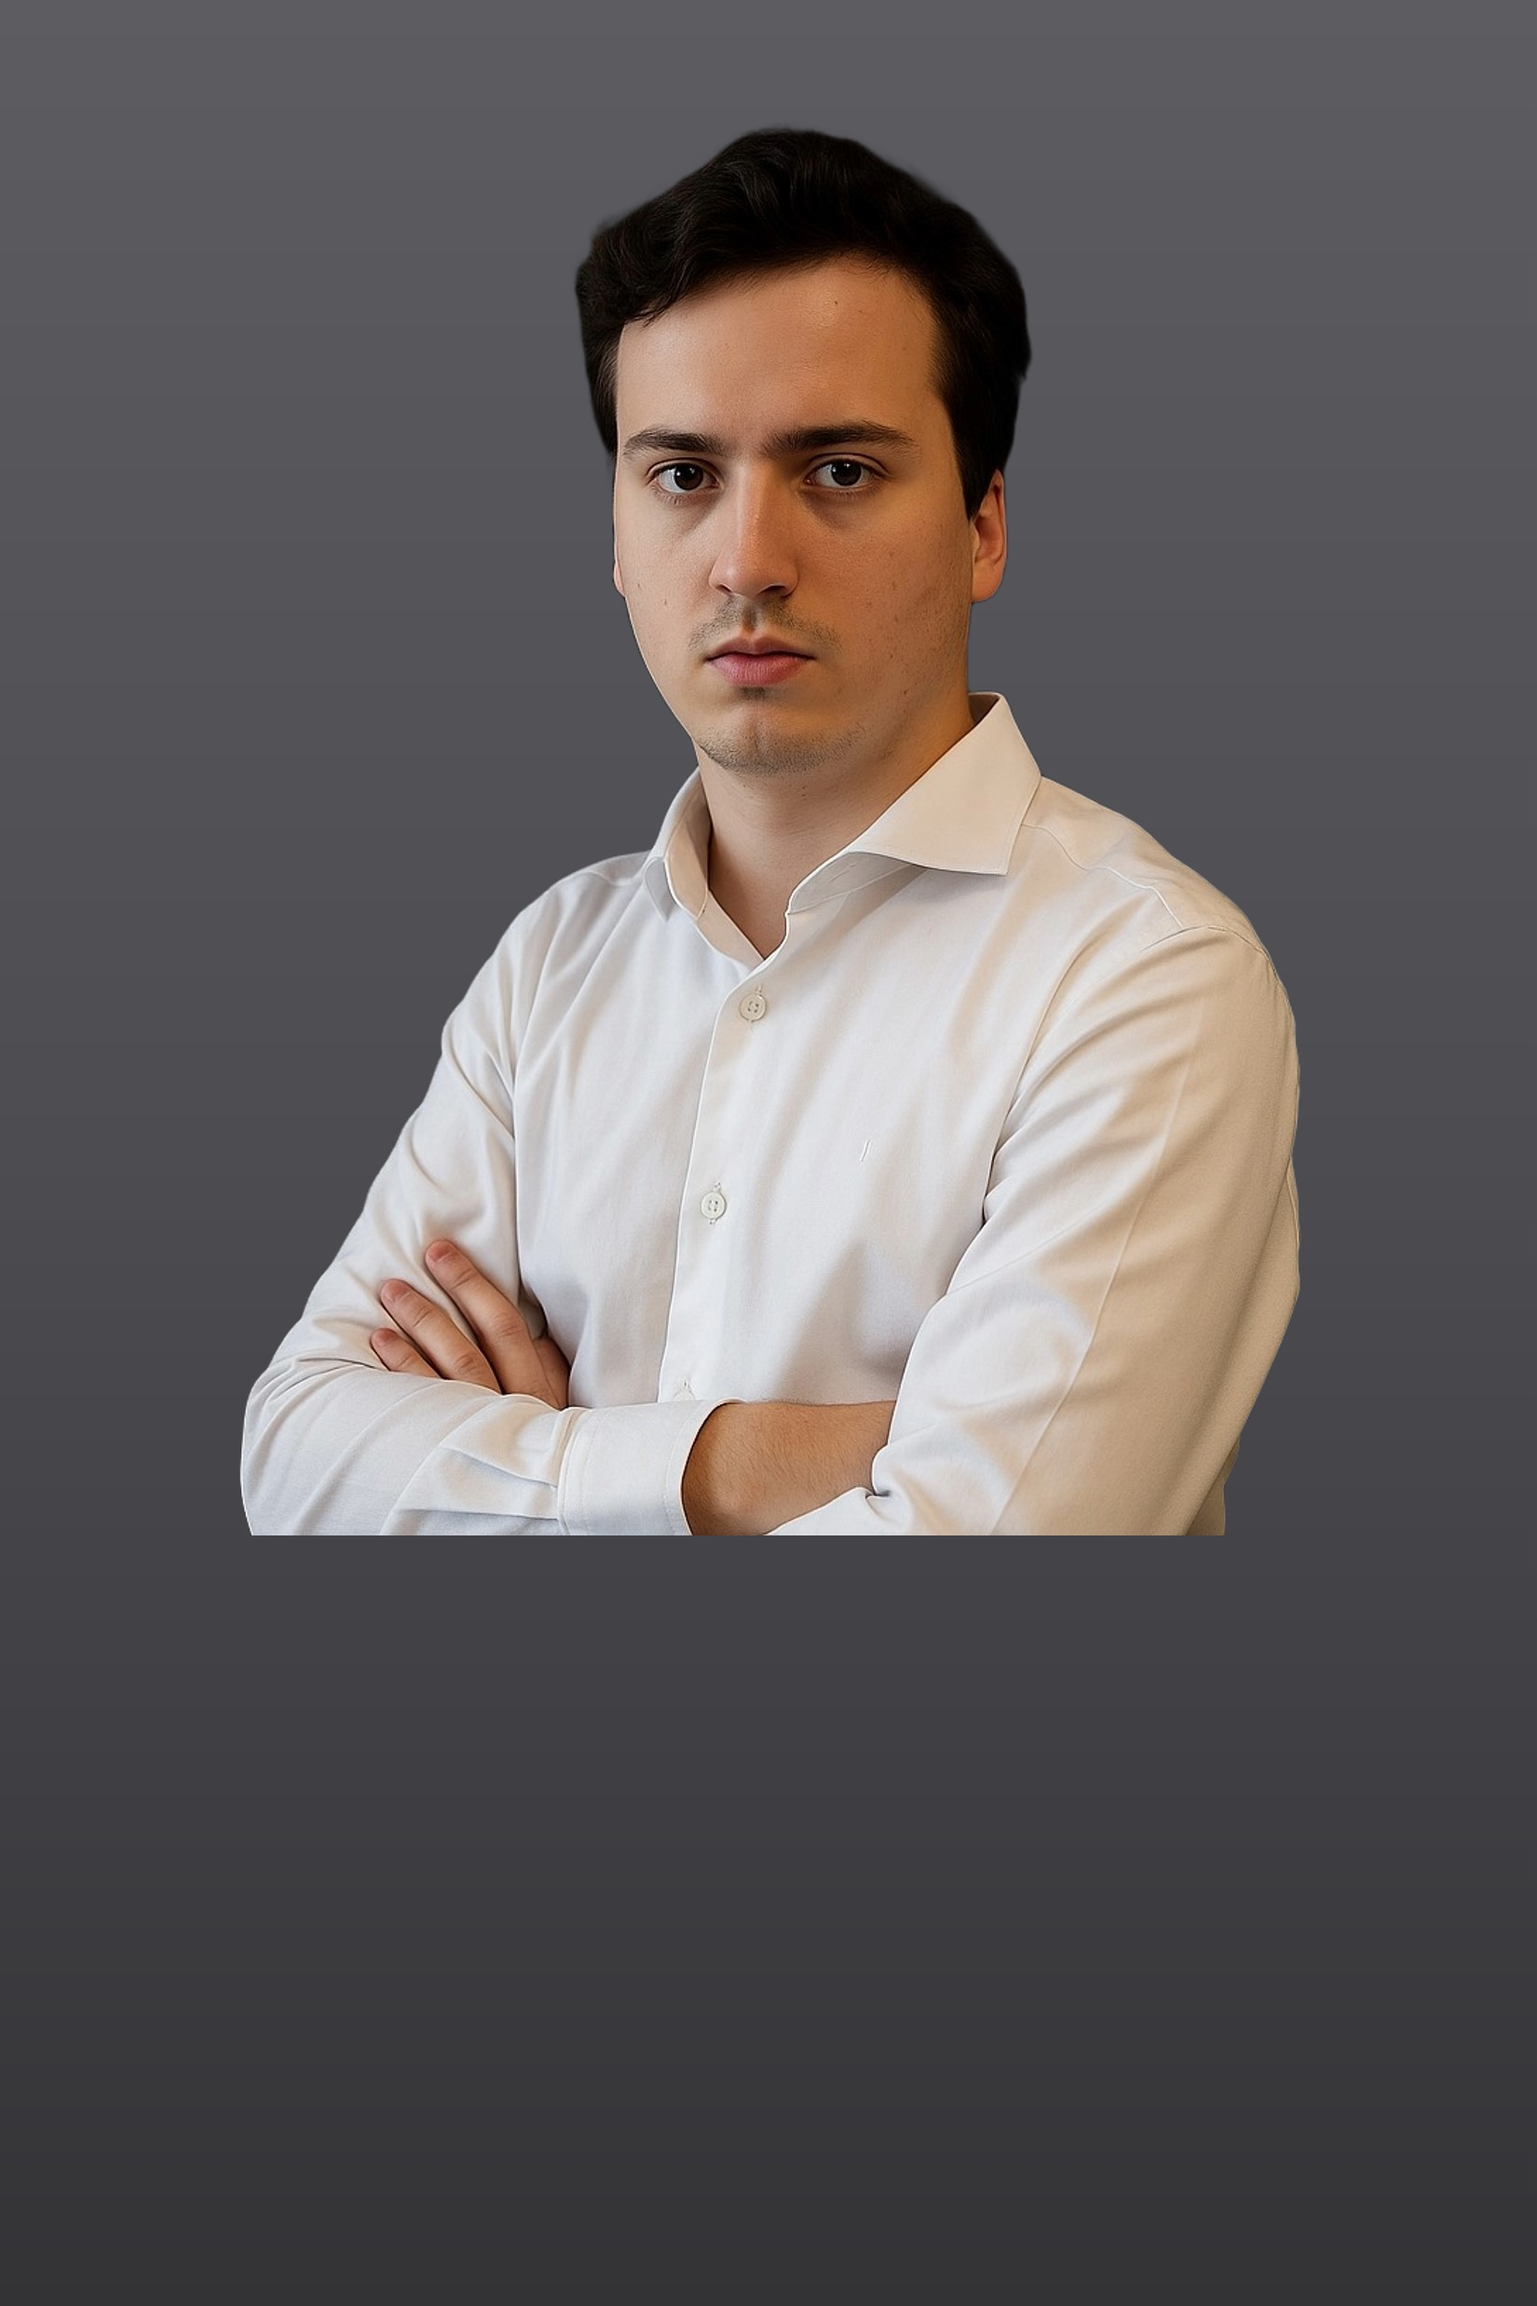
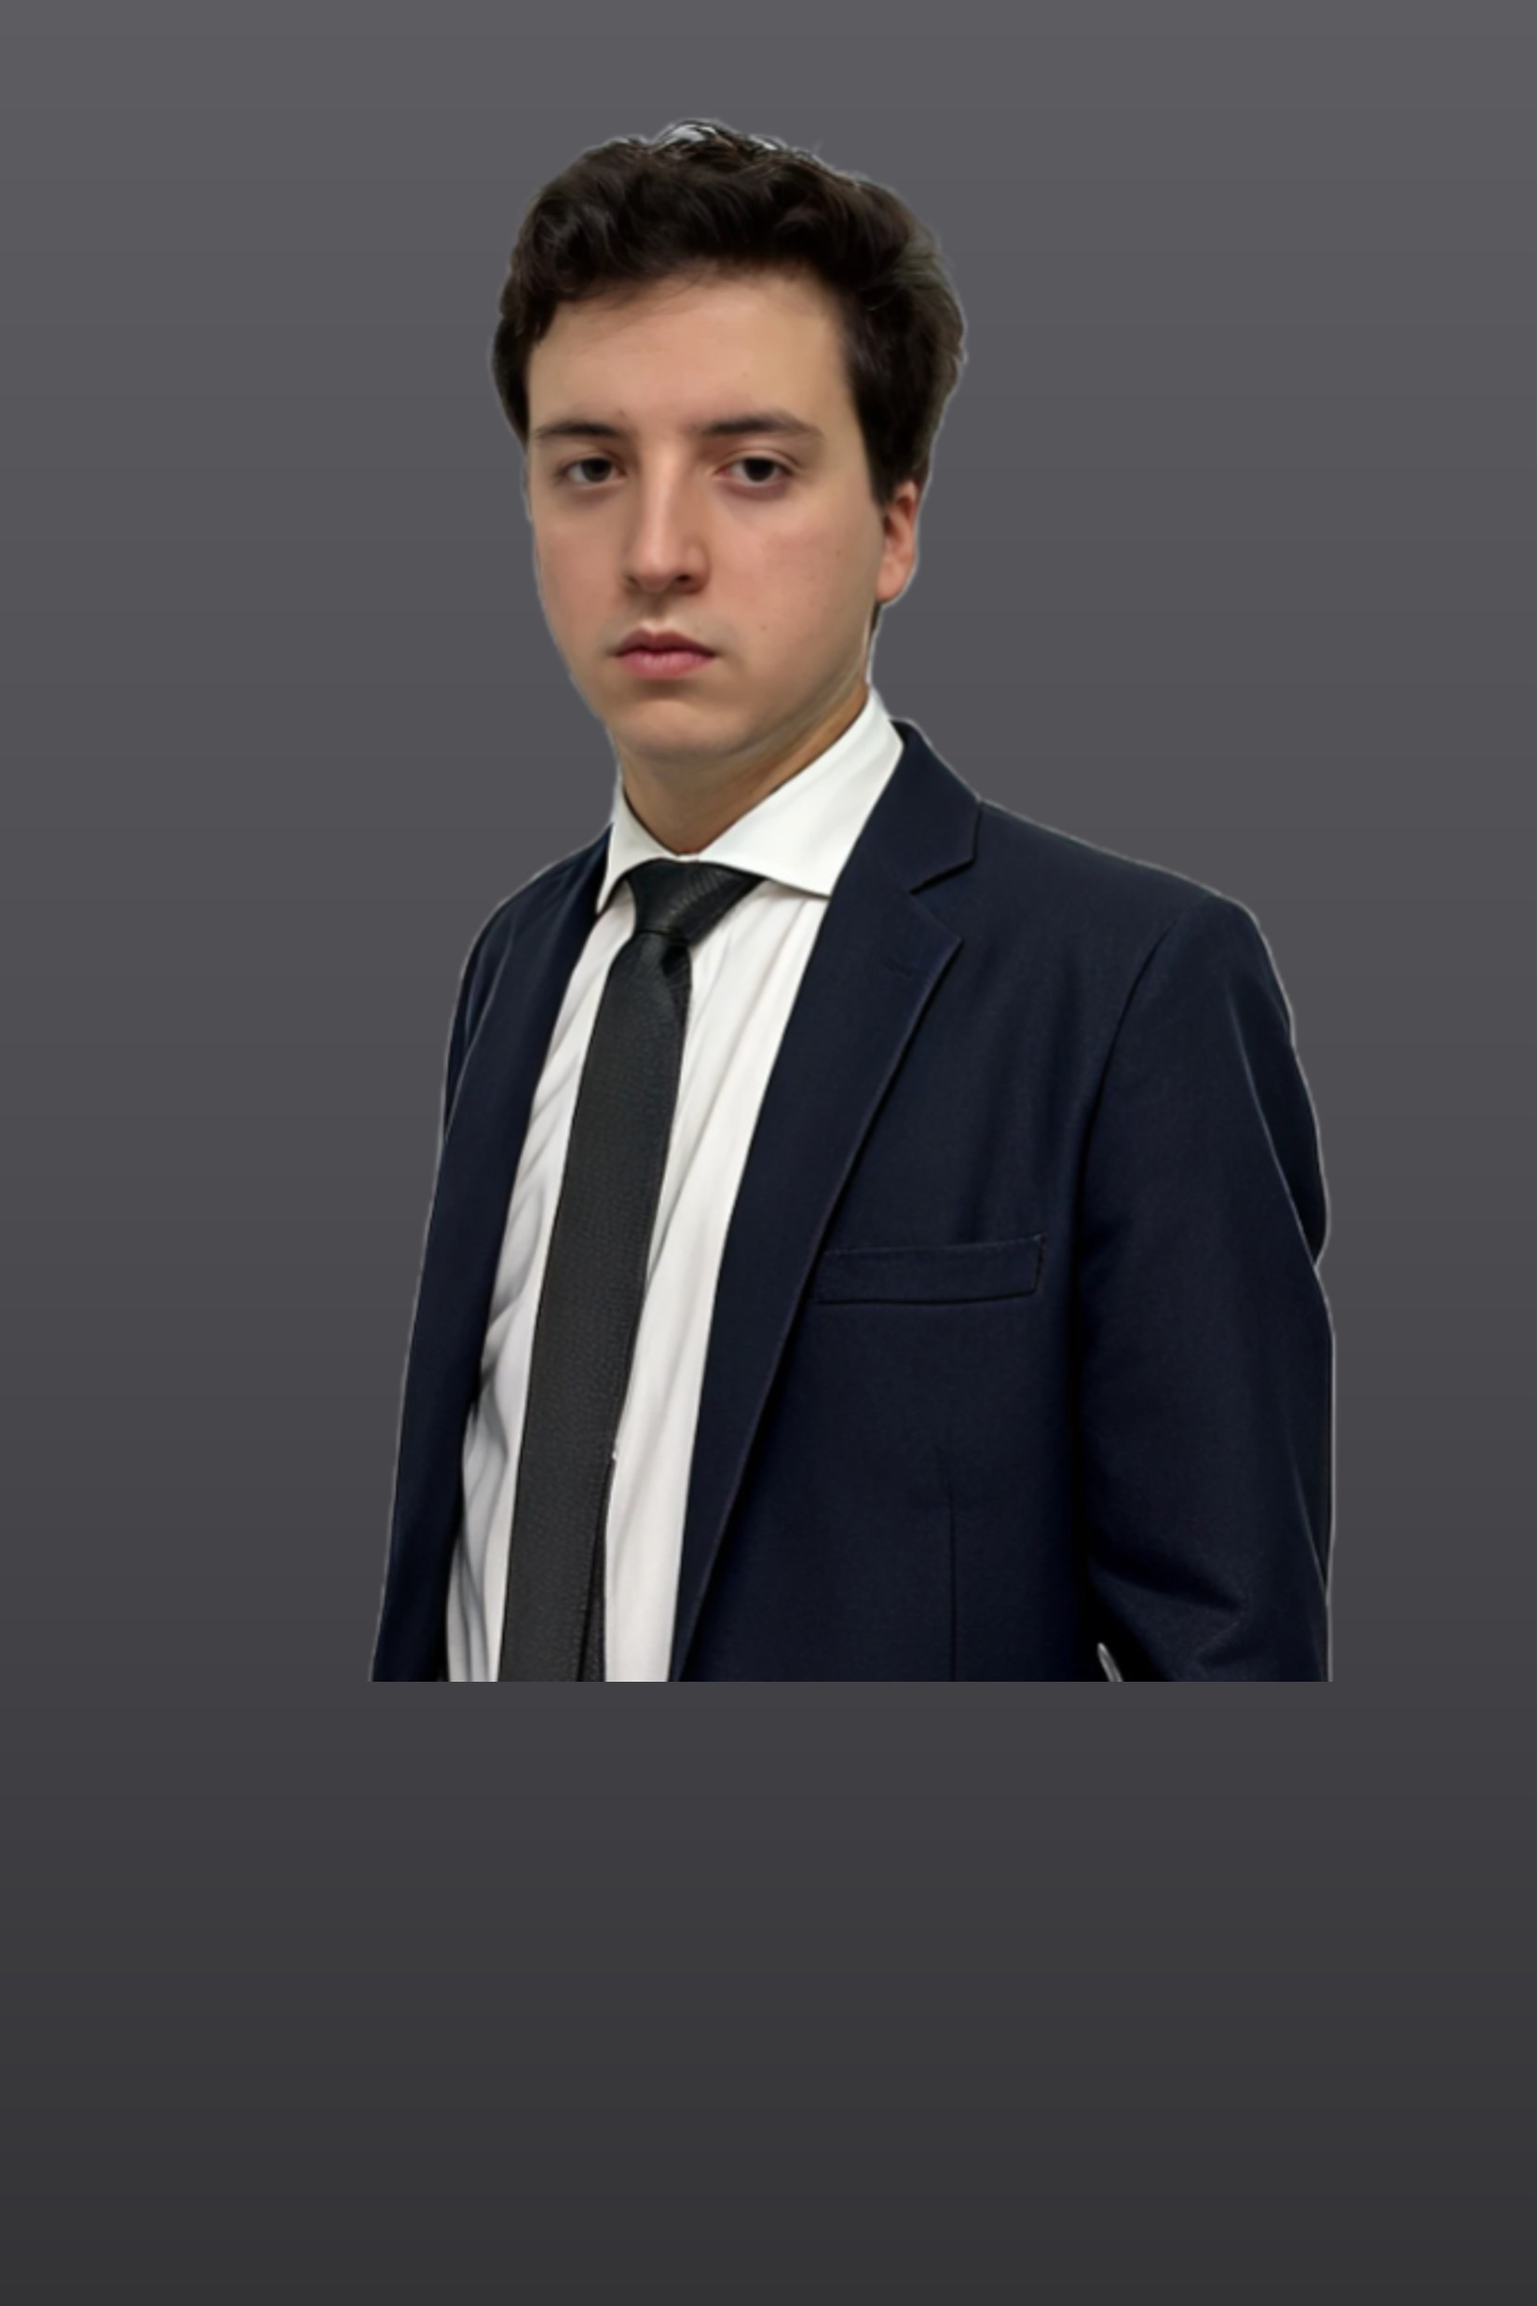
sem html e foto nova

Changed region(s): [[0.1545, 0.0311, 0.8655, 0.7467]]

diff --git a/index.html b/index.html
@@ -65,22 +65,22 @@
         </button>
       </div>
       <nav id="main-nav" class="hidden md:flex space-x-8 text-lg font-medium">
-        <a href="#" class="border-b-2 border-[#003366] pb-1 transition hover:text-[#2046b3] hover:font-bold">Home</a>
-        <a href="sobre.html" class="transition hover:text-[#2046b3] hover:font-bold">Sobre</a>
-        <a href="equipe.html" class="transition hover:text-[#2046b3] hover:font-bold">Equipe</a>
-        <a href="#servicos" class="transition hover:text-[#2046b3] hover:font-bold">Serviços</a>
-        <a href="#contato" class="transition hover:text-[#2046b3] hover:font-bold">Contato</a>
+        <a href="index.html" class="border-b-2 border-[#003366] pb-1 transition hover:text-[#2046b3] hover:font-bold">Home</a>
+        <a href="sobre" class="transition hover:text-[#2046b3] hover:font-bold">Sobre</a>
+        <a href="equipe" class="transition hover:text-[#2046b3] hover:font-bold">Equipe</a>
+        <a href="index.html#servicos" class="transition hover:text-[#2046b3] hover:font-bold">Serviços</a>
+        <a href="index.html#contato" class="transition hover:text-[#2046b3] hover:font-bold">Contato</a>
       </nav>
-      <a href="#contato" class="hidden md:inline-block bg-[#003366] text-white px-5 py-2 rounded-lg font-semibold hover:bg-[#00264d] transition">Fale Conosco</a>
+      <a href="index.html#contato" class="hidden md:inline-block bg-[#003366] text-white px-5 py-2 rounded-lg font-semibold hover:bg-[#00264d] transition">Fale Conosco</a>
     </div>
     <!-- Mobile Menu -->
     <nav id="mobile-menu" class="hidden md:hidden px-6 pt-2 pb-4 space-y-1 sm:px-3 text-center">
-      <a href="#" class="block px-3 py-2 rounded-md text-base font-medium text-[#003366] hover:bg-gray-100 border-b-2 border-[#003366] pb-1 transition hover:text-[#2046b3] hover:font-bold">Home</a>
-      <a href="sobre.html" class="block px-3 py-2 rounded-md text-base font-medium text-[#003366] hover:bg-gray-100 transition hover:text-[#2046b3] hover:font-bold">Sobre</a>
-      <a href="equipe.html" class="block px-3 py-2 rounded-md text-base font-medium text-[#003366] hover:bg-gray-100 transition hover:text-[#2046b3] hover:font-bold">Equipe</a>
-      <a href="#servicos" class="block px-3 py-2 rounded-md text-base font-medium text-[#003366] hover:bg-gray-100 transition hover:text-[#2046b3] hover:font-bold">Serviços</a>
-      <a href="#contato" class="block px-3 py-2 rounded-md text-base font-medium text-[#003366] hover:bg-gray-100 transition hover:text-[#2046b3] hover:font-bold">Contato</a>
-      <a href="#contato" class="mt-4 block bg-[#003366] text-white px-5 py-2 rounded-lg font-semibold hover:bg-[#00264d] transition text-center">Fale Conosco</a>
+      <a href="index.html" class="block px-3 py-2 rounded-md text-base font-medium text-[#003366] hover:bg-gray-100 border-b-2 border-[#003366] pb-1 transition hover:text-[#2046b3] hover:font-bold">Home</a>
+      <a href="sobre" class="block px-3 py-2 rounded-md text-base font-medium text-[#003366] hover:bg-gray-100 transition hover:text-[#2046b3] hover:font-bold">Sobre</a>
+      <a href="equipe" class="block px-3 py-2 rounded-md text-base font-medium text-[#003366] hover:bg-gray-100 transition hover:text-[#2046b3] hover:font-bold">Equipe</a>
+      <a href="index.html#servicos" class="block px-3 py-2 rounded-md text-base font-medium text-[#003366] hover:bg-gray-100 transition hover:text-[#2046b3] hover:font-bold">Serviços</a>
+      <a href="index.html#contato" class="block px-3 py-2 rounded-md text-base font-medium text-[#003366] hover:bg-gray-100 transition hover:text-[#2046b3] hover:font-bold">Contato</a>
+      <a href="index.html#contato" class="mt-4 block bg-[#003366] text-white px-5 py-2 rounded-lg font-semibold hover:bg-[#00264d] transition text-center">Fale Conosco</a>
     </nav>
   </header>
 
@@ -91,8 +91,8 @@
         <h1 class="text-4xl md:text-6xl font-bold leading-tight mb-4">O aliado que todo empresário precisa</h1>
         <p class="text-lg md:text-xl mb-8">Não somos uma boutique de M&A. Oferecemos assessoria pré-M&A para empresas que ainda não sabem se é o momento de um evento de liquidez ou captação de investidores. Realizamos uma análise completa de valuation e mercado, sempre na linha Emuná.</p>
         <div class="flex flex-col sm:flex-row gap-4 mb-10">
-          <a href="#servicos" class="bg-white text-[#003366] px-6 py-3 rounded-lg font-semibold flex items-center gap-2 hover:bg-gray-100 transition">Conhecer Serviços <span>&rarr;</span></a>
-          <a href="#contato" class="bg-white/10 border border-white px-6 py-3 rounded-lg font-semibold text-white hover:bg-white/20 transition">Fale Conosco</a>
+          <a href="index.html#servicos" class="bg-white text-[#003366] px-6 py-3 rounded-lg font-semibold flex items-center gap-2 hover:bg-gray-100 transition">Conhecer Serviços <span>&rarr;</span></a>
+          <a href="index.html#contato" class="bg-white/10 border border-white px-6 py-3 rounded-lg font-semibold text-white hover:bg-white/20 transition">Fale Conosco</a>
         </div>
       </div>
       <div class="flex-1 w-full mt-12 md:mt-0">
@@ -385,9 +385,9 @@
       <div>
         <h3 class="text-xl font-bold text-white mb-4">Empresa</h3>
         <ul class="space-y-2">
-          <li><a href="sobre.html" class="hover:text-white transition">Sobre Nós</a></li>
-          <li><a href="equipe.html" class="hover:text-white transition">Equipe</a></li>
-          <li><a href="#contato" class="hover:text-white transition">Contato</a></li>
+          <li><a href="sobre" class="hover:text-white transition">Sobre Nós</a></li>
+          <li><a href="equipe" class="hover:text-white transition">Equipe</a></li>
+          <li><a href="index.html#contato" class="hover:text-white transition">Contato</a></li>
         </ul>
       </div>
     </div>

diff --git a/equipe.html b/equipe.html
@@ -49,8 +49,8 @@
       </div>
       <nav id="main-nav" class="hidden md:flex space-x-8 text-lg font-medium">
         <a href="index.html" class="transition hover:text-[#2046b3] hover:font-bold">Home</a>
-        <a href="sobre.html" class="transition hover:text-[#2046b3] hover:font-bold">Sobre</a>
-        <a href="equipe.html" class="border-b-2 border-[#003366] pb-1 transition hover:text-[#2046b3] hover:font-bold">Equipe</a>
+        <a href="sobre" class="transition hover:text-[#2046b3] hover:font-bold">Sobre</a>
+        <a href="equipe" class="border-b-2 border-[#003366] pb-1 transition hover:text-[#2046b3] hover:font-bold">Equipe</a>
         <a href="index.html#servicos" class="transition hover:text-[#2046b3] hover:font-bold">Serviços</a>
         <a href="index.html#contato" class="transition hover:text-[#2046b3] hover:font-bold">Contato</a>
       </nav>
@@ -59,8 +59,8 @@
     <!-- Mobile Menu -->
     <nav id="mobile-menu" class="hidden md:hidden px-6 pt-2 pb-4 space-y-1 sm:px-3 text-center">
       <a href="index.html" class="block px-3 py-2 rounded-md text-base font-medium text-[#003366] hover:bg-gray-100 transition hover:text-[#2046b3] hover:font-bold">Home</a>
-      <a href="sobre.html" class="block px-3 py-2 rounded-md text-base font-medium text-[#003366] hover:bg-gray-100 transition hover:text-[#2046b3] hover:font-bold">Sobre</a>
-      <a href="equipe.html" class="block px-3 py-2 rounded-md text-base font-medium text-[#003366] hover:bg-gray-100 border-b-2 border-[#003366] pb-1 transition hover:text-[#2046b3] hover:font-bold">Equipe</a>
+      <a href="sobre" class="block px-3 py-2 rounded-md text-base font-medium text-[#003366] hover:bg-gray-100 transition hover:text-[#2046b3] hover:font-bold">Sobre</a>
+      <a href="equipe" class="block px-3 py-2 rounded-md text-base font-medium text-[#003366] hover:bg-gray-100 border-b-2 border-[#003366] pb-1 transition hover:text-[#2046b3] hover:font-bold">Equipe</a>
       <a href="index.html#servicos" class="block px-3 py-2 rounded-md text-base font-medium text-[#003366] hover:bg-gray-100 transition hover:text-[#2046b3] hover:font-bold">Serviços</a>
       <a href="index.html#contato" class="block px-3 py-2 rounded-md text-base font-medium text-[#003366] hover:bg-gray-100 transition hover:text-[#2046b3] hover:font-bold">Contato</a>
       <a href="index.html#contato" class="mt-4 block bg-[#003366] text-white px-5 py-2 rounded-lg font-semibold hover:bg-[#00264d] transition text-center">Fale Conosco</a>

diff --git a/sobre.html b/sobre.html
@@ -49,8 +49,8 @@
       </div>
       <nav id="main-nav" class="hidden md:flex space-x-8 text-lg font-medium">
         <a href="index.html" class="transition hover:text-[#2046b3] hover:font-bold">Home</a>
-        <a href="sobre.html" class="border-b-2 border-[#003366] pb-1 transition hover:text-[#2046b3] hover:font-bold">Sobre</a>
-        <a href="equipe.html" class="transition hover:text-[#2046b3] hover:font-bold">Equipe</a>
+        <a href="sobre" class="border-b-2 border-[#003366] pb-1 transition hover:text-[#2046b3] hover:font-bold">Sobre</a>
+        <a href="equipe" class="transition hover:text-[#2046b3] hover:font-bold">Equipe</a>
         <a href="index.html#servicos" class="transition hover:text-[#2046b3] hover:font-bold">Serviços</a>
         <a href="index.html#contato" class="transition hover:text-[#2046b3] hover:font-bold">Contato</a>
       </nav>
@@ -59,8 +59,8 @@
     <!-- Mobile Menu -->
     <nav id="mobile-menu" class="hidden md:hidden px-6 pt-2 pb-4 space-y-1 sm:px-3 text-center">
       <a href="index.html" class="block px-3 py-2 rounded-md text-base font-medium text-[#003366] hover:bg-gray-100 transition hover:text-[#2046b3] hover:font-bold">Home</a>
-      <a href="sobre.html" class="block px-3 py-2 rounded-md text-base font-medium text-[#003366] hover:bg-gray-100 border-b-2 border-[#003366] pb-1 transition hover:text-[#2046b3] hover:font-bold">Sobre</a>
-      <a href="equipe.html" class="block px-3 py-2 rounded-md text-base font-medium text-[#003366] hover:bg-gray-100 transition hover:text-[#2046b3] hover:font-bold">Equipe</a>
+      <a href="sobre" class="block px-3 py-2 rounded-md text-base font-medium text-[#003366] hover:bg-gray-100 border-b-2 border-[#003366] pb-1 transition hover:text-[#2046b3] hover:font-bold">Sobre</a>
+      <a href="equipe" class="block px-3 py-2 rounded-md text-base font-medium text-[#003366] hover:bg-gray-100 transition hover:text-[#2046b3] hover:font-bold">Equipe</a>
       <a href="index.html#servicos" class="block px-3 py-2 rounded-md text-base font-medium text-[#003366] hover:bg-gray-100 transition hover:text-[#2046b3] hover:font-bold">Serviços</a>
       <a href="index.html#contato" class="block px-3 py-2 rounded-md text-base font-medium text-[#003366] hover:bg-gray-100 transition hover:text-[#2046b3] hover:font-bold">Contato</a>
       <a href="index.html#contato" class="mt-4 block bg-[#003366] text-white px-5 py-2 rounded-lg font-semibold hover:bg-[#00264d] transition text-center">Fale Conosco</a>

diff --git a/atuacao.html b/atuacao.html
@@ -54,8 +54,8 @@
       <div class="hidden md:flex flex-1 justify-center">
         <nav id="main-nav" class="space-x-8 text-lg font-medium">
           <a href="index.html" class="transition hover:text-[#2046b3] hover:font-bold">Home</a>
-          <a href="sobre.html" class="transition hover:text-[#2046b3] hover:font-bold">Sobre</a>
-          <a href="equipe.html" class="transition hover:text-[#2046b3] hover:font-bold">Equipe</a>
+          <a href="sobre" class="transition hover:text-[#2046b3] hover:font-bold">Sobre</a>
+          <a href="equipe" class="transition hover:text-[#2046b3] hover:font-bold">Equipe</a>
           <a href="index.html#servicos" class="transition hover:text-[#2046b3] hover:font-bold">Serviços</a>
           <a href="index.html#contato" class="transition hover:text-[#2046b3] hover:font-bold">Contato</a>
         </nav>
@@ -67,8 +67,8 @@
     <!-- Mobile Menu -->
     <nav id="mobile-menu" class="hidden md:hidden px-6 pt-2 pb-4 space-y-1 sm:px-3 text-center">
       <a href="index.html" class="block px-3 py-2 rounded-md text-base font-medium text-[#003366] hover:bg-gray-100 transition hover:text-[#2046b3] hover:font-bold">Home</a>
-      <a href="sobre.html" class="block px-3 py-2 rounded-md text-base font-medium text-[#003366] hover:bg-gray-100 transition hover:text-[#2046b3] hover:font-bold">Sobre</a>
-      <a href="equipe.html" class="block px-3 py-2 rounded-md text-base font-medium text-[#003366] hover:bg-gray-100 transition hover:text-[#2046b3] hover:font-bold">Equipe</a>
+      <a href="sobre" class="block px-3 py-2 rounded-md text-base font-medium text-[#003366] hover:bg-gray-100 transition hover:text-[#2046b3] hover:font-bold">Sobre</a>
+      <a href="equipe" class="block px-3 py-2 rounded-md text-base font-medium text-[#003366] hover:bg-gray-100 transition hover:text-[#2046b3] hover:font-bold">Equipe</a>
       <a href="index.html#servicos" class="block px-3 py-2 rounded-md text-base font-medium text-[#003366] hover:bg-gray-100 transition hover:text-[#2046b3] hover:font-bold">Serviços</a>
       <a href="index.html#contato" class="block px-3 py-2 rounded-md text-base font-medium text-[#003366] hover:bg-gray-100 transition hover:text-[#2046b3] hover:font-bold">Contato</a>
       <a href="index.html#contato" class="mt-4 block bg-[#003366] text-white px-5 py-2 rounded-lg font-semibold hover:bg-[#00264d] transition text-center">Fale Conosco</a>
